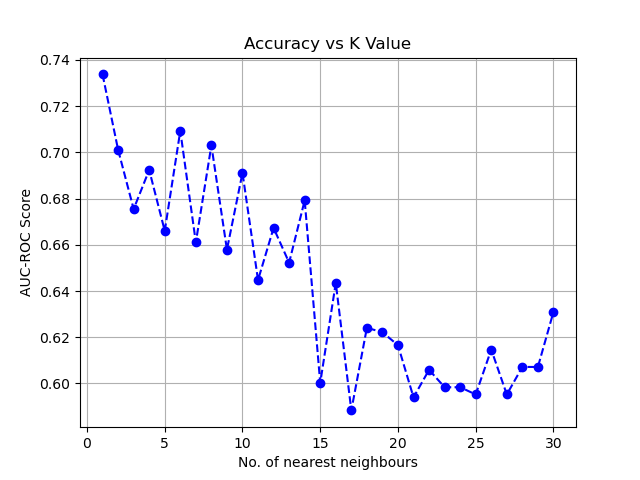
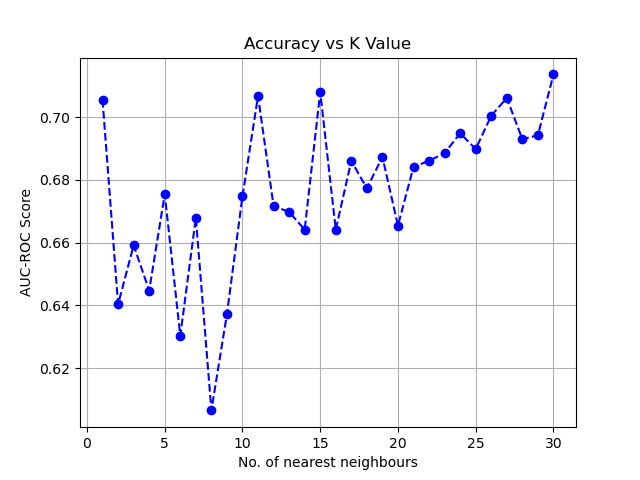
feat: use SMOTE to improve imbalanced dataset

diff --git a/A/mainA.py b/A/mainA.py
@@ -10,6 +10,7 @@ import torch.optim as optim
 
 from sklearn.metrics import roc_auc_score, classification_report
 from sklearn.svm import SVC
+from imblearn.over_sampling import SMOTE
 
 
 def taskA():
@@ -19,10 +20,10 @@ def taskA():
     # Define constants
     DATAPATH = "Datasets/breastmnist.npz"
     SOLVER = "lbfgs"
+    RUN_LOGREG = True
     RUN_KNN = True
-    RUN_LOGREG = False
-    RUN_CNN = False
     RUN_SVM = True
+    RUN_CNN = False
 
     # Load BreastMNIST data
     data = load_breastmnist_data(datapath=DATAPATH)
@@ -38,10 +39,14 @@ def taskA():
     val_data = data["val_data"]
     val_labels = data["val_labels"]
 
-    # Preprocess data
-    data, labels = preprocess(data = [train_data, val_data, test_data], labels = [train_labels, val_labels, test_labels])
-    X_train, X_val, X_test = data[0], data[1], data[2]
-    y_train, y_val, y_test = labels[0], labels[1], labels[2]
+    # Preprocess train and test data for traditional machine learning models
+    data, labels = preprocess(data = [train_data, test_data], labels = [train_labels, test_labels])
+    X_train, X_test = data[0], data[1]
+    y_train, y_test = labels[0], labels[1]
+
+    # Apply SMOTE to balance the dataset
+    smote = SMOTE(random_state=7)
+    X_train_resampled, y_train_resampled = smote.fit_resample(X_train, y_train)
 
     # Instantiate model logistic regression without cross-validation
     if RUN_LOGREG:
@@ -49,7 +54,7 @@ def taskA():
         logreg = LogisticRegressionModel(solver = SOLVER)
 
         # Make classification prediction on test data
-        y_test_pred = logreg.predict(X_train, y_train, X_test)
+        y_test_pred = logreg.predict(X_train_resampled, y_train_resampled, X_test)
 
         # Evaluate prediction
         print("Evaluation on test set")
@@ -69,7 +74,7 @@ def taskA():
         max_score = 0
         for k in range(1, NEIGHBOURS+1):
             knn_model = KNNModel(neighbours=k)
-            y_pred = knn_model.predict(X_train, y_train, X_test)
+            y_pred = knn_model.predict(X_train_resampled, y_train_resampled, X_test)
             roc_auc = knn_model.evaluate(y_test, y_pred)
             if roc_auc > max_score:
                 best_k = k
@@ -78,7 +83,7 @@ def taskA():
 
         print(f"Best K Value: {best_k}")
         knn_model = KNNModel(neighbours=k)
-        y_pred = knn_model.predict(X_train, y_train, X_test)
+        y_pred = knn_model.predict(X_train_resampled, y_train_resampled, X_test)
 
         print("Evaluation on test set")
         score = roc_auc_score(y_test, y_pred) * 100

diff --git a/A/task_A_models.py b/A/task_A_models.py
@@ -7,6 +7,7 @@ from sklearn.neighbors import KNeighborsClassifier
 from sklearn.metrics import classification_report, roc_auc_score
 from sklearn.svm import SVC
 
+
 from numpy.typing import ArrayLike
 from typing import List, Optional
 import matplotlib.pyplot as plt
@@ -73,7 +74,7 @@ class LogisticRegressionModel:
         - y_true (ArrayLike): The test data to be compared
         - y_pred (ArrayLike): The predicted data to be compared
         """
-        print(f"AUC-ROC Score: {roc_auc_score(y_true, y_pred): .3f}\n")
+        print(f"ROC-AUC Score: {roc_auc_score(y_true, y_pred) * 100: .2f}%\n")
         if self.with_cv:
             # Evaluating logistic regression with cv
             print(f"Best regularisation value (C): {self.model.C_[0]}\n")
@@ -288,8 +289,3 @@ class CNNModelTrainer:
         plt.grid()
         plt.title("CNN Training Curve")
         plt.savefig("figures/CNN_Training_Curve.png")
-
-
-class SVMModel:
-    def __init__(self):
-        self.model = SVC()
